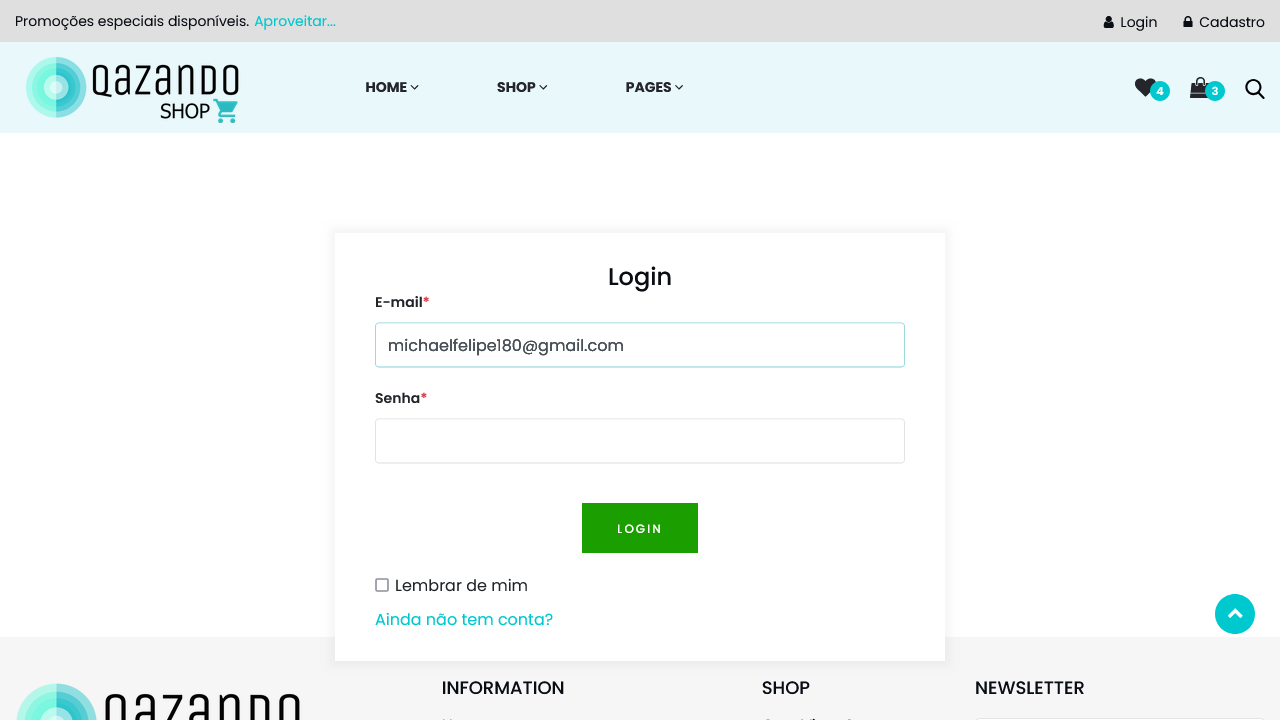
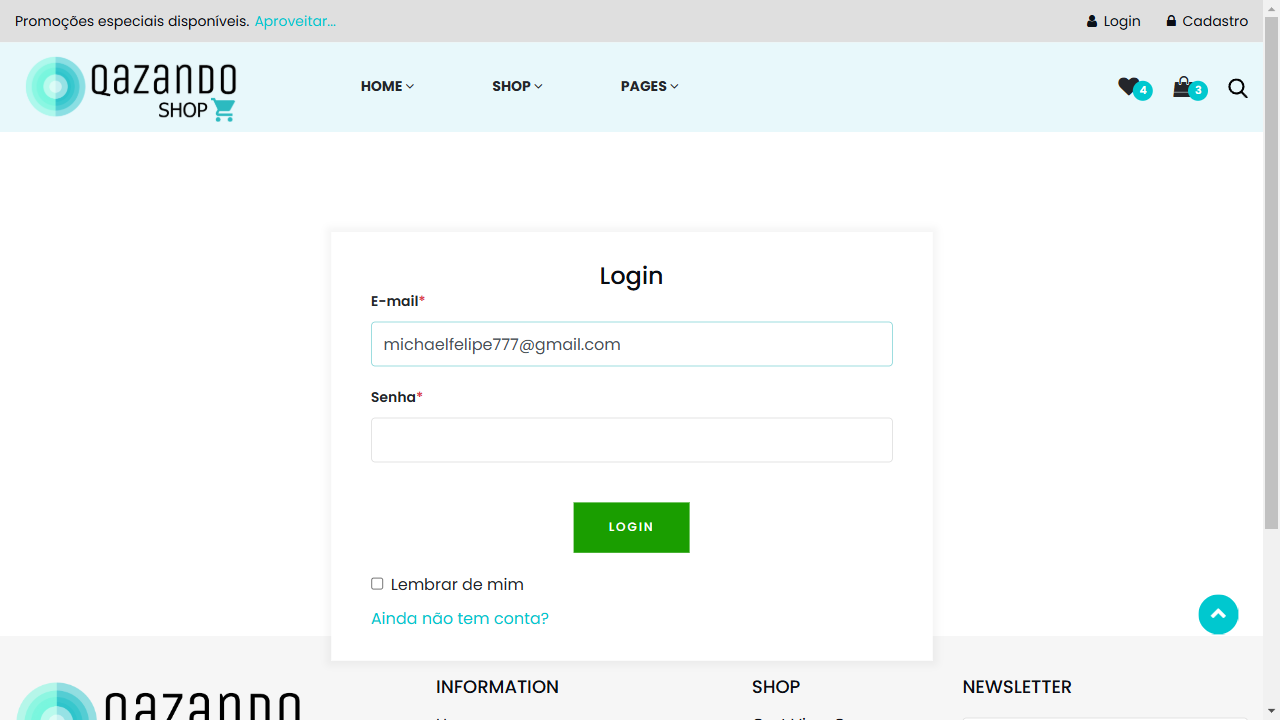
ajustes do teste

diff --git a/playwright-report/index.html b/playwright-report/index.html
@@ -68,4 +68,4 @@ Error generating stack: `+l.message+`
   </body>
 </html>
 <script>
[2 lines of base64/hex data omitted]

diff --git a/tests/LoginSucesso.spec.js b/tests/LoginSucesso.spec.js
@@ -6,9 +6,7 @@ test.beforeEach(async ({page}) =>{
   })
 test('Login com sucesso @Login', async ({ page }) => {
 
-  const button = await page.getByRole('button', { name: 'Send Mail' })
-  await button.scrollIntoViewIfNeeded()
-  await button.click()
+
 
   await page.getByRole('link', { name: ' Login' }).click();
   await page.locator('#user').click();
@@ -19,13 +17,22 @@ test('Login com sucesso @Login', async ({ page }) => {
   await page.locator('#password').screenshot({ path: 'screenshot/elementosenha.png' });
   await page.getByRole('button', { name: 'login' }).click();
   await page.getByRole('heading', { name: 'Login realizado' }).click();
-  await page.getByText('Olá, michaelfelipe180@gmail.').click();
+  await expect(page.locator('.swal2-html-container')).toHaveText(/Olá, michaelfelipe777@gmail.com/);
   await page.getByRole('button', { name: 'OK' }).click();
   // await page.locator('#userLogged i').first().click();
   // await page.getByRole('link', { name: ' Logout', exact: true }).click();
   // await page.getByRole('heading', { name: 'Logout realizado' }).click();
   // await page.getByText('Obrigado, e volte sempre!').click();
   // await page.getByRole('button', { name: 'OK' }).click();
+
+
+
+
+
+  // mode de interahir caso prese dar scroll na tela
+    // const button = await page.getByRole('button', { name: 'Send Mail' })
+  // await button.scrollIntoViewIfNeeded()
+  // await button.click()
 
   
 });

diff --git a/tests/CadastroSucesso.spec.js b/tests/CadastroSucesso.spec.js
@@ -20,8 +20,10 @@ await page.locator('#email').fill('michaelfelipe777@gmail.com');
 await page.locator('#password').click();
 await page.locator('#password').fill('123456');
 await page.getByRole('button', { name: 'Cadastrar' }).click();
-await page.getByRole('heading', { name: 'Cadastro realizado!' }).click();
-await page.getByText('Bem-vindo michael').click();
+await expect(page.locator('.swal2-title')).toHaveText(/Cadastro realizado!/);
+await expect(page.locator('.swal2-html-container')).toHaveText(/Bem-vindo michael/);
 await page.getByRole('button', { name: 'OK' }).click();
 
 })
+
+
